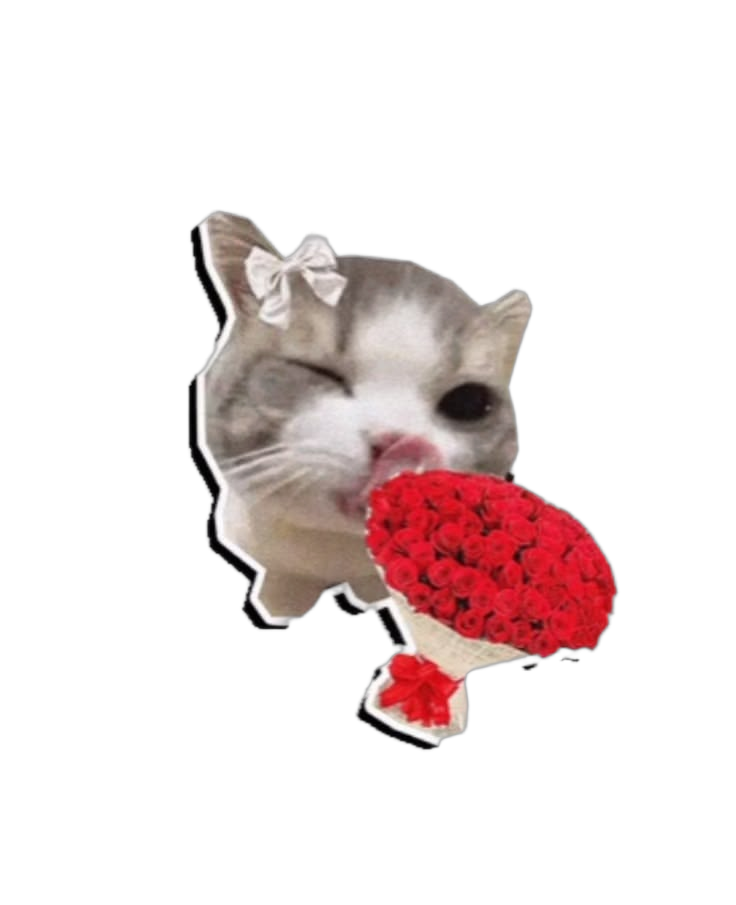
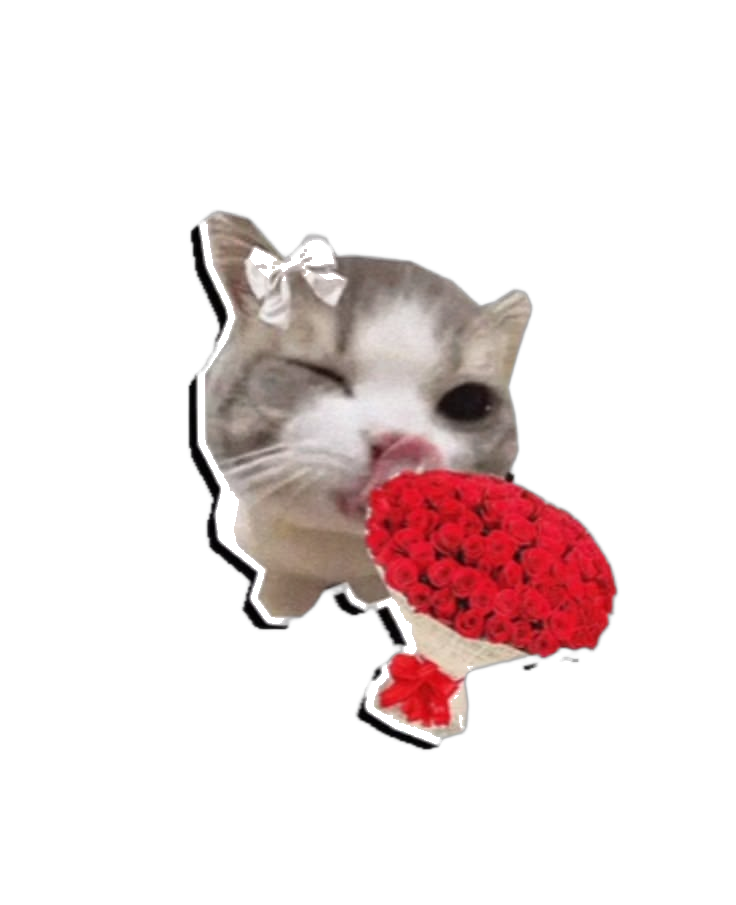
Update stickers and vinyl card

diff --git a/src/main.js b/src/main.js
@@ -1105,37 +1105,67 @@ function initCharSelect(fireworks) {
     frog: { icon: '🐸', name: 'FROG WITCH', color: '#55cc33' },
   }
 
-  // ── Color-key: strip checker background from JPEG sprites ─────────
+  // ── Color-key: flood-fill from image corners to remove checker bg ──
   function removeCheckerBackground(imgSrc) {
     return new Promise(resolve => {
       const img = new Image()
-      img.crossOrigin = 'anonymous'
+      // NO crossOrigin — same-origin Vercel assets don't need it (it causes errors)
       img.onload = () => {
-        const cvs = document.createElement('canvas')
-        cvs.width = img.naturalWidth
-        cvs.height = img.naturalHeight
-        const ctx2 = cvs.getContext('2d')
-        ctx2.drawImage(img, 0, 0)
-        const id = ctx2.getImageData(0, 0, cvs.width, cvs.height)
-        const d = id.data
-        for (let i = 0; i < d.length; i += 4) {
-          const r = d[i], g = d[i+1], b = d[i+2]
-          const brightness = (r + g + b) / 3
-          const max = Math.max(r, g, b)
-          const min = Math.min(r, g, b)
-          const saturation = max === 0 ? 0 : (max - min) / max
-          // Checker: high brightness, very low saturation (gray/white squares)
-          if (brightness > 165 && saturation < 0.13) {
-            // Smooth edge: fade near threshold
-            const alpha = brightness < 185 ? Math.round((185 - brightness) / 20 * 255) : 0
-            d[i+3] = alpha
+        try {
+          const W = img.naturalWidth, H = img.naturalHeight
+          const cvs = document.createElement('canvas')
+          cvs.width = W; cvs.height = H
+          const ctx2 = cvs.getContext('2d')
+          ctx2.drawImage(img, 0, 0)
+          const id = ctx2.getImageData(0, 0, W, H)
+          const d = id.data
+
+          // Sample the corner colour (top-left pixel = background colour)
+          const bgR = d[0], bgG = d[1], bgB = d[2]
+          const TOL = 38  // colour distance tolerance (handles JPEG artifacts)
+
+          // Flood-fill from ALL 4 edges using BFS
+          const visited = new Uint8Array(W * H)
+          const queue = []
+
+          // Seed: all pixels on the 4 borders
+          for (let x = 0; x < W; x++) {
+            queue.push(x, 0);      // top
+            queue.push(x, H - 1); // bottom
           }
+          for (let y = 0; y < H; y++) {
+            queue.push(0, y);      // left
+            queue.push(W - 1, y); // right
+          }
+
+          let qi = 0
+          while (qi < queue.length) {
+            const x = queue[qi++], y = queue[qi++]
+            const idx = y * W + x
+            if (visited[idx]) continue
+            visited[idx] = 1
+            const pi = idx * 4
+            const r = d[pi], g = d[pi+1], b = d[pi+2]
+            // Is this pixel similar to the corner background colour?
+            if (Math.abs(r-bgR) + Math.abs(g-bgG) + Math.abs(b-bgB) > TOL) continue
+            // Yes → make transparent
+            d[pi+3] = 0
+            // Expand to 4 neighbours
+            if (x > 0)   queue.push(x-1, y)
+            if (x < W-1) queue.push(x+1, y)
+            if (y > 0)   queue.push(x, y-1)
+            if (y < H-1) queue.push(x, y+1)
+          }
+
+          ctx2.putImageData(id, 0, 0)
+          resolve(cvs.toDataURL('image/png'))
+        } catch(e) {
+          console.warn('Sprite bg removal failed, using original:', e)
+          resolve(imgSrc)
         }
-        ctx2.putImageData(id, 0, 0)
-        resolve(cvs.toDataURL('image/png'))
       }
       img.onerror = () => resolve(imgSrc)
-      img.src = imgSrc
+      img.src = imgSrc + '?v=' + Date.now()  // cache-bust to avoid stale state
     })
   }
 

diff --git a/src/level3.js b/src/level3.js
@@ -1,6 +1,3 @@
-// ============================================================
-//  LEVEL 3 - ENDER DRAGON BOSS FIGHT
-// ============================================================
 class Level3DragonGame {
   constructor(container, skinSrc) {
     this.container = container
@@ -19,6 +16,13 @@ class Level3DragonGame {
     this.flames   = []
     this.hits     = []
     this._shake   = 0
+    // Sprite sheet walk animation (same sheet as charselect: 2064×512, 4 frames)
+    this.SPRITE_FRAMES   = 4
+    this.SPRITE_FRAME_W  = 516   // 2064 / 4
+    this.SPRITE_H        = 512
+    this.spriteFrameIdx  = 0
+    this.spriteFrameTick = 0
+    this.spriteFrameRate = 8
     this.resize()
     window.addEventListener('resize', () => this.resize())
     this._setupInput()
@@ -527,6 +531,16 @@ class Level3DragonGame {
   _drawPlayer3(ctx,t){
     const p=this.player
     if(p.invincible&&Math.floor(t/4)%2===0) return
+
+    // Advance sprite frame
+    this.spriteFrameTick++
+    const moving = Math.abs(p.vx) > 0.5
+    const rate = moving ? this.spriteFrameRate : 18
+    if(this.spriteFrameTick >= rate){
+      this.spriteFrameTick = 0
+      this.spriteFrameIdx = (this.spriteFrameIdx + 1) % this.SPRITE_FRAMES
+    }
+
     ctx.save();ctx.translate(p.x,p.y);ctx.scale(p.facing,1)
     // Wings
     const wf=Math.sin(p.wingPhase)*0.38
@@ -543,11 +557,15 @@ class Level3DragonGame {
       }
       ctx.restore()
     })
-    // Body
+    // Body — draw ONE sprite frame using source rect
     if(this.playerImg.complete&&this.playerImg.naturalWidth){
-      ctx.save();ctx.beginPath();ctx.rect(-p.w/2,-p.h,p.w,p.h);ctx.clip()
-      ctx.drawImage(this.playerImg,-p.w/2,-p.h,p.w,p.h);ctx.restore()
-      ctx.strokeStyle='rgba(255,255,255,0.4)';ctx.lineWidth=1.5;ctx.strokeRect(-p.w/2,-p.h,p.w,p.h)
+      const fw = this.SPRITE_FRAME_W   // 516px source frame width
+      const fh = this.SPRITE_H         // 512px source frame height
+      const sx = this.spriteFrameIdx * fw
+      const dw = p.w + 16
+      const dh = p.h + 8
+      // No clip — just draw the single frame directly
+      ctx.drawImage(this.playerImg, sx, 0, fw, fh, -dw/2, -dh, dw, dh)
     } else {ctx.fillStyle='#ff85b3';ctx.fillRect(-p.w/2,-p.h,p.w,p.h)}
     // Sword
     ctx.save();ctx.translate(16,-34)

diff --git a/index.html b/index.html
@@ -603,6 +603,16 @@
       </div>
 
       <!-- Vinyl Card and Slideshow -->
+      <div style="position: absolute; bottom: 5%; right: 5%; width: 400px; transform: rotate(-5deg); z-index: 15; filter: drop-shadow(0 15px 25px rgba(0,0,0,0.5));">
+        <img src="/vinyl_card.png" style="width: 100%; display: block;" alt="Vinyl Card">
+        <img src="/slideshow1.png" class="slide-img" style="animation-delay: 0s;" alt="Slideshow 1">
+        <img src="/slideshow2.png" class="slide-img" style="animation-delay: 2s;" alt="Slideshow 2">
+        <img src="/slideshow3.png" class="slide-img" style="animation-delay: 4s;" alt="Slideshow 3">
+      </div>
+
+      <img src="/cat1.png" class="vintage-corner swaying-cat" style="bottom: 2%; left: 15%; width: 120px; z-index: 20;" alt="Cat 1">
+      <img src="/cat2.png" class="vintage-corner swaying-cat" style="bottom: 5%; left: 35%; width: 130px; z-index: 20;" alt="Cat 2">
+      <img src="/spiderman.png" class="vintage-corner swaying-hanging" style="top: -10px; left: 10%; width: 150px; z-index: 20;" alt="Spiderman">
       </div> <!-- End of scrapbook-items-container -->
 
       <!-- Big Letter Container -->
